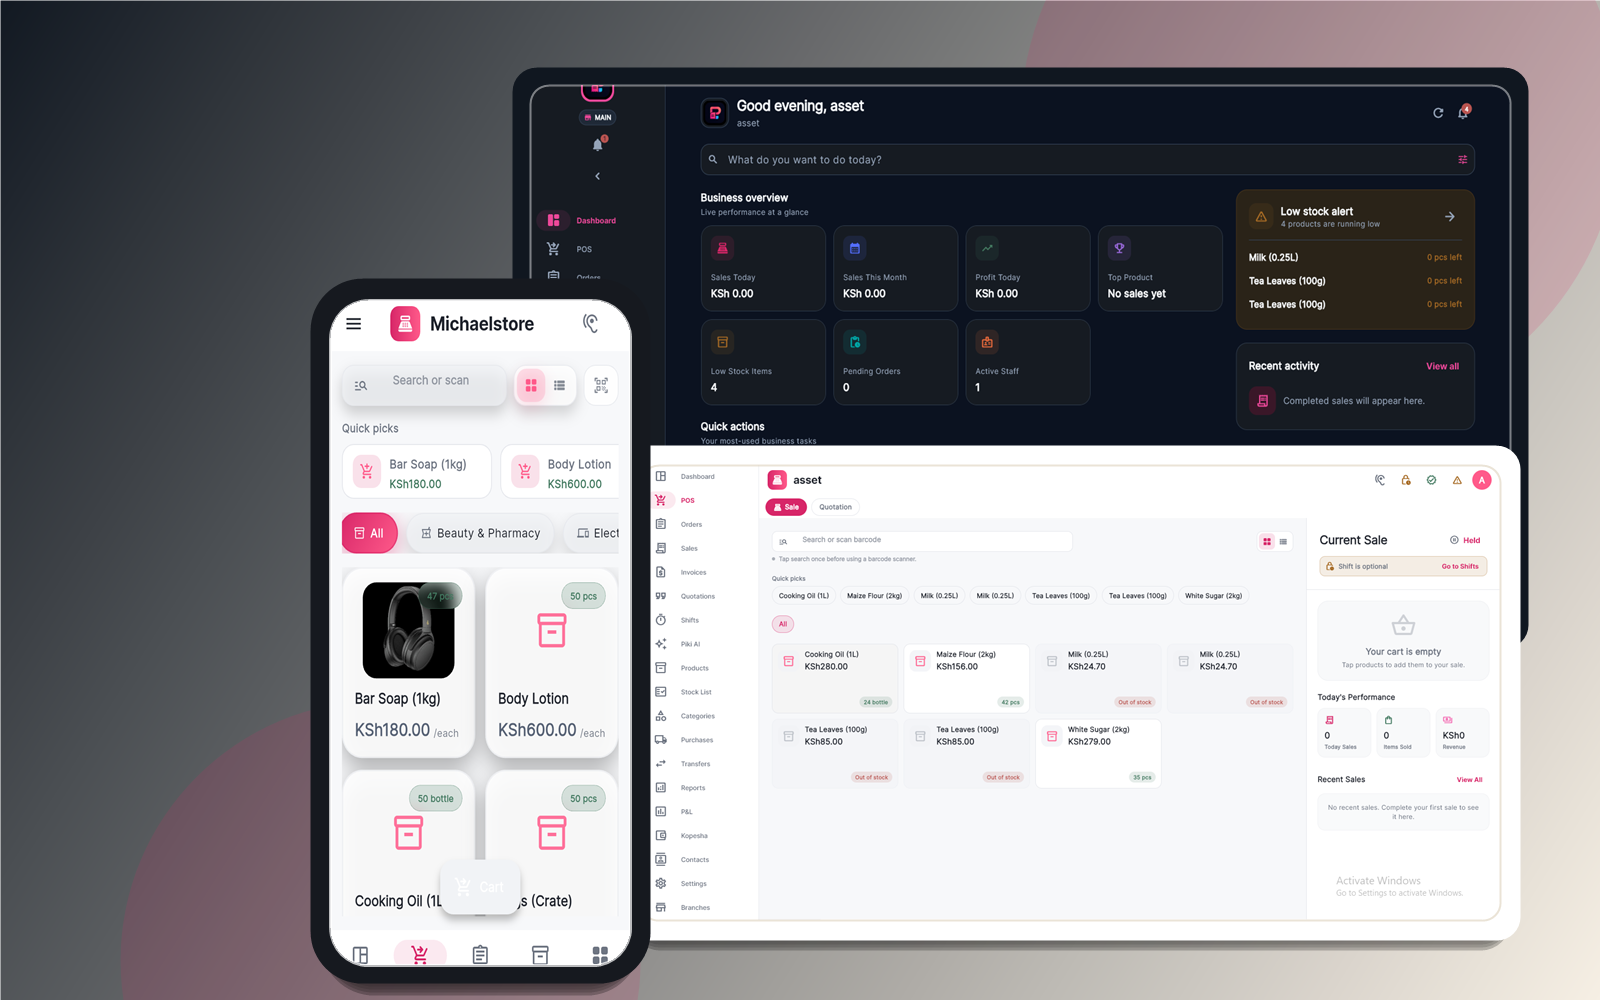
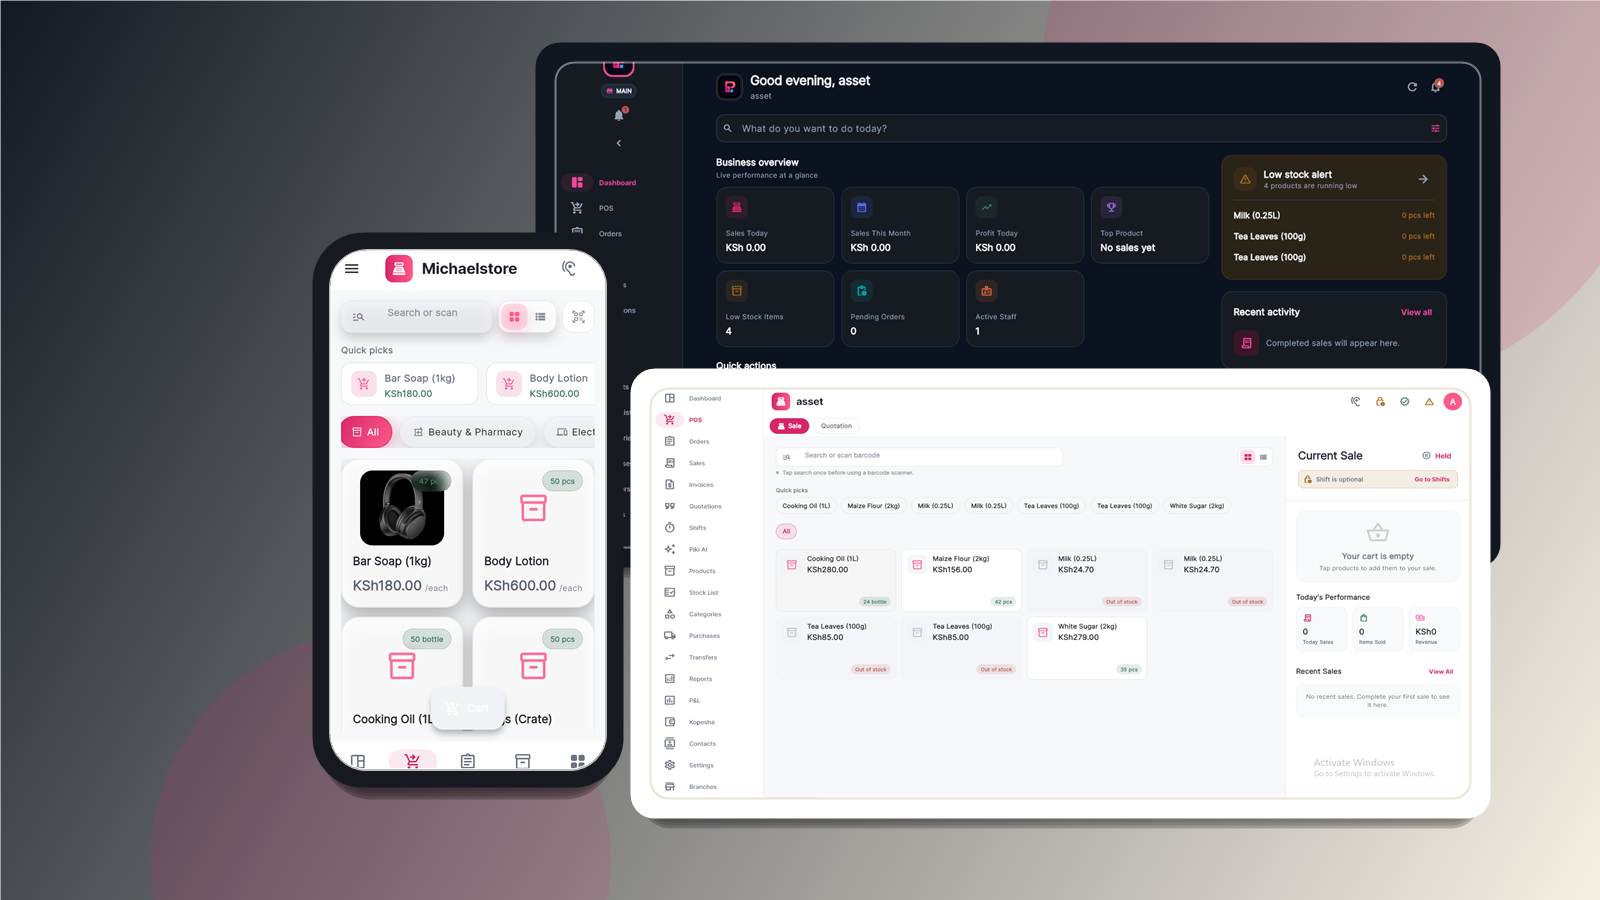
fix: correct hero showcase aspect ratio

diff --git a/landing-page/index.html b/landing-page/index.html
@@ -21,27 +21,27 @@
     <meta property="og:title" content="Piki POS | Sell when the internet doesn't.">
     <meta property="og:description" content="Offline-first point of sale built in Kenya. Checkout runs on the device, so a dropped connection never means a dropped sale.">
     <meta property="og:url" content="https://pikipos.com/">
-    <meta property="og:image" content="assets/marketing/hero-product-showcase-rose.png?v=20260619-rose2">
+    <meta property="og:image" content="assets/marketing/hero-product-showcase-rose.png?v=20260619-hero900">
     <meta property="og:locale" content="en_KE">
 
     <!-- Twitter Card -->
     <meta name="twitter:card" content="summary_large_image">
     <meta name="twitter:title" content="Piki POS | Sell when the internet doesn't.">
     <meta name="twitter:description" content="Offline-first point of sale built in Kenya. Cloud sync, Kopesha credit, M-Pesa, and KRA eTIMs.">
-    <meta name="twitter:image" content="assets/marketing/hero-product-showcase-rose.png?v=20260619-rose2">
+    <meta name="twitter:image" content="assets/marketing/hero-product-showcase-rose.png?v=20260619-hero900">
 
     <!-- Performance hints -->
     <link rel="preconnect" href="https://fonts.googleapis.com">
     <link rel="preconnect" href="https://fonts.gstatic.com" crossorigin>
     <link rel="preconnect" href="https://cdnjs.cloudflare.com" crossorigin>
-    <link rel="preload" as="image" href="assets/marketing/hero-product-showcase-rose.png?v=20260619-rose2" fetchpriority="high">
+    <link rel="preload" as="image" href="assets/marketing/hero-product-showcase-rose.png?v=20260619-hero900" fetchpriority="high">
 
     <!-- Fonts: Fraunces (display serif) + Inter (body) + JetBrains Mono (labels) -->
     <link href="https://fonts.googleapis.com/css2?family=Fraunces:ital,opsz,wght,SOFT@0,9..144,400..700,0..100;1,9..144,400..600,0..100&family=Inter:wght@400;500;600;700&family=JetBrains+Mono:wght@400;500;600&display=swap" rel="stylesheet">
     <!-- FontAwesome (functional icons only, never in gradient boxes) -->
     <link rel="stylesheet" href="https://cdnjs.cloudflare.com/ajax/libs/font-awesome/6.4.0/css/all.min.css">
     <!-- Main Stylesheet -->
-    <link rel="stylesheet" href="styles.css?v=20260619-rose2">
+    <link rel="stylesheet" href="styles.css?v=20260619-hero900">
 
     <!-- Structured data for rich search results -->
     <script type="application/ld+json">
@@ -111,7 +111,7 @@
 
                 <figure class="hero-visual reveal-right">
                     <div class="frame">
-                        <img src="assets/marketing/hero-product-showcase-rose.png?v=20260619-rose2" alt="Piki POS shown on desktop and Android screens for dashboard and checkout work" class="hero-img" width="1600" height="1000" loading="eager" decoding="async" fetchpriority="high">
+                        <img src="assets/marketing/hero-product-showcase-rose.png?v=20260619-hero900" alt="Piki POS shown on desktop and Android screens for dashboard and checkout work" class="hero-img" width="1600" height="900" loading="eager" decoding="async" fetchpriority="high">
                     </div>
                     <figcaption class="frame-caption">Piki POS &nbsp;·&nbsp; counter view</figcaption>
                 </figure>
@@ -186,7 +186,7 @@
                 <div class="screens-grid">
                     <article class="screen-card screen-card-wide reveal stagger-1">
                         <div class="screen-media">
-                            <img src="assets/marketing/screen-pos-desktop.png?v=20260619-rose2" alt="Piki POS desktop checkout screen with product cards and current sale panel" loading="lazy" decoding="async">
+                            <img src="assets/marketing/screen-pos-desktop.png?v=20260619-hero900" alt="Piki POS desktop checkout screen with product cards and current sale panel" loading="lazy" decoding="async">
                         </div>
                         <div class="screen-copy">
                             <h3>Fast counter checkout</h3>
@@ -196,7 +196,7 @@
 
                     <article class="screen-card screen-card-wide reveal stagger-2">
                         <div class="screen-media">
-                            <img src="assets/marketing/screen-products-desktop.png?v=20260619-rose2" alt="Piki POS product management screen with prices, stock status, and product actions" loading="lazy" decoding="async">
+                            <img src="assets/marketing/screen-products-desktop.png?v=20260619-hero900" alt="Piki POS product management screen with prices, stock status, and product actions" loading="lazy" decoding="async">
                         </div>
                         <div class="screen-copy">
                             <h3>Products and stock</h3>
@@ -206,7 +206,7 @@
 
                     <article class="screen-card screen-card-wide reveal stagger-3">
                         <div class="screen-media">
-                            <img src="assets/marketing/screen-reports-desktop.png?v=20260619-rose2" alt="Piki POS reports dashboard with cashier summary, sales trend, and employee results" loading="lazy" decoding="async">
+                            <img src="assets/marketing/screen-reports-desktop.png?v=20260619-hero900" alt="Piki POS reports dashboard with cashier summary, sales trend, and employee results" loading="lazy" decoding="async">
                         </div>
                         <div class="screen-copy">
                             <h3>Owner-ready reports</h3>
@@ -216,7 +216,7 @@
 
                     <article class="screen-card screen-card-phone reveal stagger-4">
                         <div class="screen-media">
-                            <img src="assets/marketing/screen-mobile-pos-rose.png?v=20260619-rose2" alt="Piki POS Android checkout screen with products and review payment button" loading="lazy" decoding="async">
+                            <img src="assets/marketing/screen-mobile-pos-rose.png?v=20260619-hero900" alt="Piki POS Android checkout screen with products and review payment button" loading="lazy" decoding="async">
                         </div>
                         <div class="screen-copy">
                             <h3>Android selling</h3>
@@ -264,7 +264,7 @@
 
                 <figure class="storefront-visual reveal-right stagger-2">
                     <div class="frame">
-                        <img src="assets/marketing/storefront-showcase.png?v=20260619-rose2" alt="Piki POS storefront shown on a customer phone with catalog orders and QR sharing" width="1100" height="900" loading="lazy" decoding="async">
+                        <img src="assets/marketing/storefront-showcase.png?v=20260619-hero900" alt="Piki POS storefront shown on a customer phone with catalog orders and QR sharing" width="1100" height="900" loading="lazy" decoding="async">
                     </div>
                     <figcaption class="frame-caption">Storefront sharing &nbsp;·&nbsp; QR + link</figcaption>
                 </figure>

diff --git a/landing-page/data-deletion.html b/landing-page/data-deletion.html
@@ -13,7 +13,7 @@
     <link rel="preconnect" href="https://fonts.gstatic.com" crossorigin>
     <link href="https://fonts.googleapis.com/css2?family=Fraunces:ital,opsz,wght,SOFT@0,9..144,400..700,0..100;1,9..144,400..600,0..100&family=Inter:wght@400;500;600;700&family=JetBrains+Mono:wght@400;500;600&display=swap" rel="stylesheet">
     <link rel="stylesheet" href="https://cdnjs.cloudflare.com/ajax/libs/font-awesome/6.4.0/css/all.min.css">
-    <link rel="stylesheet" href="styles.css?v=20260619-rose2">
+    <link rel="stylesheet" href="styles.css?v=20260619-hero900">
 </head>
 <body>
     <div class="glow-blob blob-1"></div>

diff --git a/landing-page/privacy.html b/landing-page/privacy.html
@@ -13,7 +13,7 @@
     <link rel="preconnect" href="https://fonts.gstatic.com" crossorigin>
     <link href="https://fonts.googleapis.com/css2?family=Fraunces:ital,opsz,wght,SOFT@0,9..144,400..700,0..100;1,9..144,400..600,0..100&family=Inter:wght@400;500;600;700&family=JetBrains+Mono:wght@400;500;600&display=swap" rel="stylesheet">
     <link rel="stylesheet" href="https://cdnjs.cloudflare.com/ajax/libs/font-awesome/6.4.0/css/all.min.css">
-    <link rel="stylesheet" href="styles.css?v=20260619-rose2">
+    <link rel="stylesheet" href="styles.css?v=20260619-hero900">
 </head>
 <body>
     <div class="glow-blob blob-1"></div>

diff --git a/landing-page/terms.html b/landing-page/terms.html
@@ -13,7 +13,7 @@
     <link rel="preconnect" href="https://fonts.gstatic.com" crossorigin>
     <link href="https://fonts.googleapis.com/css2?family=Fraunces:ital,opsz,wght,SOFT@0,9..144,400..700,0..100;1,9..144,400..600,0..100&family=Inter:wght@400;500;600;700&family=JetBrains+Mono:wght@400;500;600&display=swap" rel="stylesheet">
     <link rel="stylesheet" href="https://cdnjs.cloudflare.com/ajax/libs/font-awesome/6.4.0/css/all.min.css">
-    <link rel="stylesheet" href="styles.css?v=20260619-rose2">
+    <link rel="stylesheet" href="styles.css?v=20260619-hero900">
 </head>
 <body>
     <div class="glow-blob blob-1"></div>

diff --git a/landing-page/styles.css b/landing-page/styles.css
@@ -263,6 +263,7 @@ code {
 }
 .frame img {
     width: 100%;
+    height: auto;
     display: block;
     border-radius: 6px;
 }
